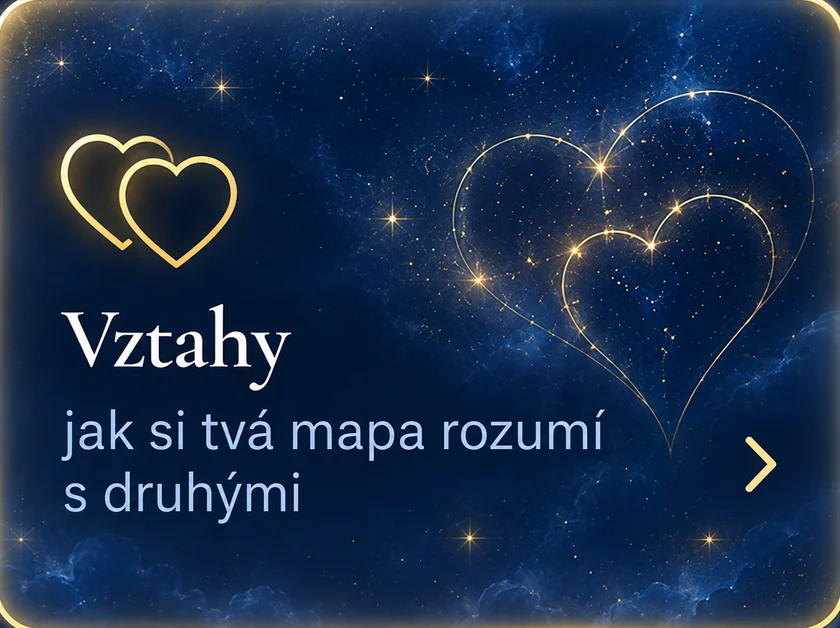
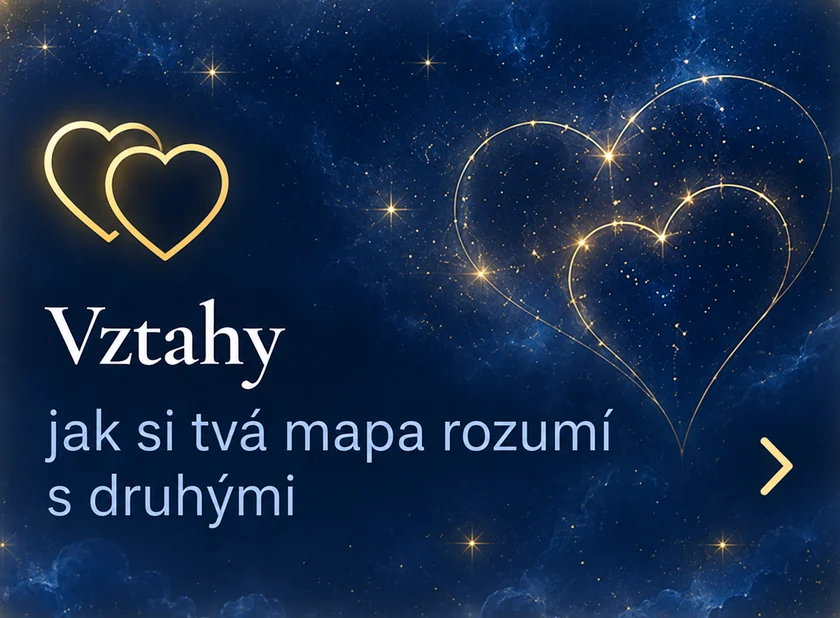
Karty O tobe: zapecene ramecky orezany uplne, ram kresli jen CSS + SW v300

diff --git a/sw.js b/sw.js
@@ -1,6 +1,6 @@
 /* Kairos – service worker. Při každé změně index.html zvedni číslo verze. */
-const CACHE = 'kairos-v299';
-const SHELL = ['./', './index.html', './styles.css?v=299', './kairos-core.js?v=299', './data.js?v=299', './app.js?v=299', './astronomy.browser.min.js', './manifest.webmanifest', './logo.png', './logo-emblem.webp?v=1', './cyklus-dne.webp?v=1', './tile-mapa.webp?v=6', './tile-prochazis.webp?v=6', './tile-vztahy.webp?v=6', './tile-horoskop.webp?v=6', './tile-cisla.webp?v=6', './tile-cakra.webp?v=6', './tile-navraty.webp?v=6', './tile-hvezdy.webp?v=6', './logo-stars.webp?v=1', './moon-tex.png?v=1', './icon-192.png', './icon-512.png', './icon-maskable-512.png', './sky-day.webp?v=7', './sky-night.webp?v=4', './sky-night-hd2.webp?v=1', './sky-day-hd2.webp?v=1'];
+const CACHE = 'kairos-v300';
+const SHELL = ['./', './index.html', './styles.css?v=300', './kairos-core.js?v=300', './data.js?v=300', './app.js?v=300', './astronomy.browser.min.js', './manifest.webmanifest', './logo.png', './logo-emblem.webp?v=1', './cyklus-dne.webp?v=1', './tile-mapa.webp?v=7', './tile-prochazis.webp?v=7', './tile-vztahy.webp?v=7', './tile-horoskop.webp?v=7', './tile-cisla.webp?v=7', './tile-cakra.webp?v=7', './tile-navraty.webp?v=7', './tile-hvezdy.webp?v=7', './logo-stars.webp?v=1', './moon-tex.png?v=1', './icon-192.png', './icon-512.png', './icon-maskable-512.png', './sky-day.webp?v=7', './sky-night.webp?v=4', './sky-night-hd2.webp?v=1', './sky-day-hd2.webp?v=1'];
 
 self.addEventListener('install', (e) => {
   e.waitUntil(caches.open(CACHE).then((c) => c.addAll(SHELL.map((u) => new Request(u, { cache: 'reload' })))).then(() => self.skipWaiting()));

diff --git a/index.html b/index.html
@@ -25,7 +25,7 @@ var mt=document.querySelector('meta[name=theme-color]');if(mt)mt.setAttribute('c
 <link rel="preconnect" href="https://fonts.googleapis.com">
 <link rel="preconnect" href="https://fonts.gstatic.com" crossorigin>
 <link rel="stylesheet" href="https://fonts.googleapis.com/css2?family=Cormorant+Garamond:ital,wght@0,500;0,600;1,500&family=IBM+Plex+Sans:wght@400;500;600&family=IBM+Plex+Mono:wght@400;500&display=swap">
-<link rel="stylesheet" href="styles.css?v=299">
+<link rel="stylesheet" href="styles.css?v=300">
 </head>
 <body>
 <div id="splash" aria-hidden="true"><img class="sp-em" src="logo-emblem.webp?v=1" alt=""><span class="bname"><i class="l1"><b>NEBESKÝ</b></i><i class="l2"><b>KOMPAS</b></i></span><img class="sp-st" src="logo-stars.webp?v=1" alt=""><span class="claim sp-cl"><i>tvůj</i><i class="mid">hvězdný</i><i class="big">kalendář</i></span></div>
@@ -55,8 +55,8 @@ var mt=document.querySelector('meta[name=theme-color]');if(mt)mt.setAttribute('c
 <button type="button" class="backbtn" id="backBtn" aria-label="Zpět, odkud jsi přišel">‹ Zpět</button>
 <div class="upbar" id="upbar" role="status"><span><b>Nová verze je připravená</b>Obnov a máš ji hned.</span><button type="button" id="upGo">Obnovit</button><button type="button" class="upx" id="upX" aria-label="Zavřít">×</button></div>
 <script src="astronomy.browser.min.js"></script>
-<script src="kairos-core.js?v=299"></script>
-<script src="data.js?v=299"></script>
-<script src="app.js?v=299"></script>
+<script src="kairos-core.js?v=300"></script>
+<script src="data.js?v=300"></script>
+<script src="app.js?v=300"></script>
 </body>
 </html>

diff --git a/app.js b/app.js
@@ -1,6 +1,6 @@
 (function () {
   'use strict';
-  const VERSION = 'v299';
+  const VERSION = 'v300';
   const A = Astronomy;
   const K = createKairosEngine(A);
   const TX = createKairosTexts(K);
@@ -2998,7 +2998,7 @@ ${parts}
     ].filter(t => t[0] !== 'cisla' || settings.numerology !== false);
     if (view === 'menu') {
       const arcS = arcSentence();
-      v.innerHTML = natalHead + (arcS ? `<p class="nnow"><span class="tvlab">u tebe teď</span>${esc(arcS)}</p>` : '') + `<div class="ntiles">${TILES.map(([id, ic, t, sub, kind]) => `<button type="button" class="ntile img ${kind || ''}" data-act="natalView" data-v="${id}" aria-label="${t} — ${sub}"><img src="tile-${id}.webp?v=6" alt="" width="420" height="317"></button>`).join('')}</div>`+ `<p class="note astrolink"><button type="button" class="linkbtn" data-act="natalView" data-v="efemeridy">Podrobnosti — pro astrologa: Efemeridy ›</button></p>`;
+      v.innerHTML = natalHead + (arcS ? `<p class="nnow"><span class="tvlab">u tebe teď</span>${esc(arcS)}</p>` : '') + `<div class="ntiles">${TILES.map(([id, ic, t, sub, kind]) => `<button type="button" class="ntile img ${kind || ''}" data-act="natalView" data-v="${id}" aria-label="${t} — ${sub}"><img src="tile-${id}.webp?v=7" alt="" width="420" height="317"></button>`).join('')}</div>`+ `<p class="note astrolink"><button type="button" class="linkbtn" data-act="natalView" data-v="efemeridy">Podrobnosti — pro astrologa: Efemeridy ›</button></p>`;
       return;
     }
     const tile = TILES.find(t => t[0] === view) || (view === 'efemeridy' ? ['efemeridy', '≡', 'Efemeridy', ''] : TILES[0]);
